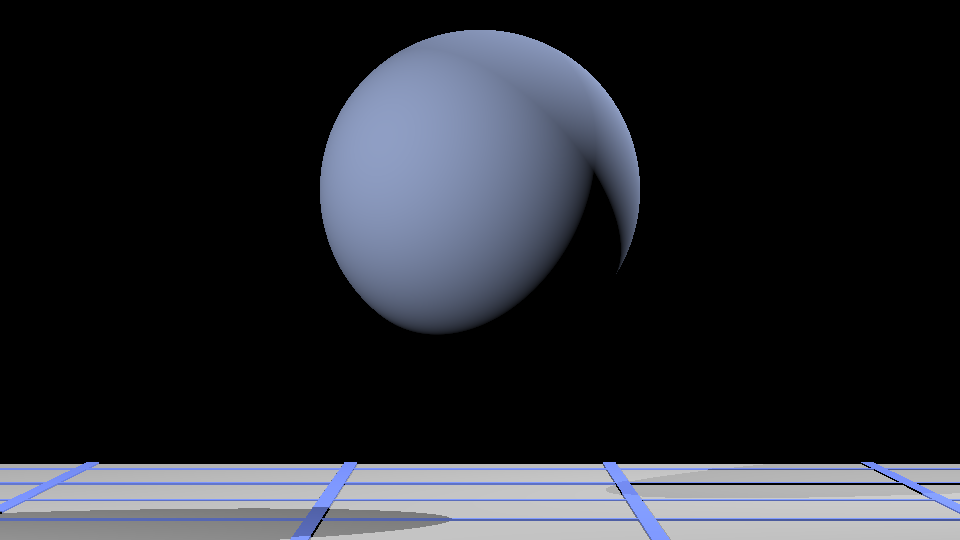
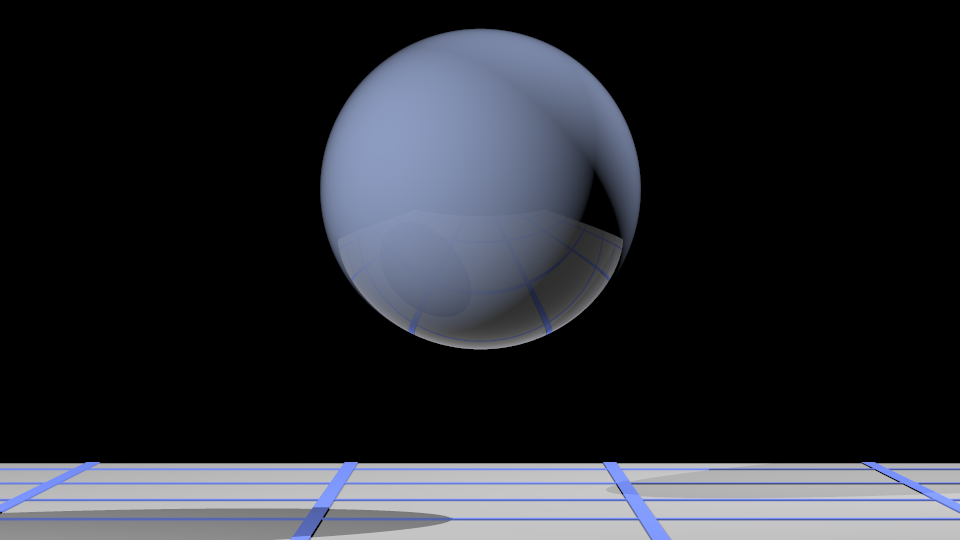
Glazed Shading Works

diff --git a/ray/shader/Glazed.java b/ray/shader/Glazed.java
@@ -35,40 +35,49 @@ public class Glazed extends Shader {
     public void shade(Color outColor, Scene scene, ArrayList<Light> lights, Vector3 toEye, 
                       IntersectionRecord record, int depth, double contribution, boolean internal) {
 
-        for (Light li : lights) {
+    		toEye.normalize();
         	//Calculate Reflection Ray
-            Vector3 l = new Vector3();
-            l.sub(li.position, record.location); // unit vector towards light
-            l.normalize();
+    		// r = -toEye - 2(-toEye.dot(n))*n;
+            Vector3 l = new Vector3(toEye);
+            l.scale(-1);
             Vector3 norm = new Vector3(record.normal);
             double d = -2*l.dot(norm);
             norm.scale(d);
-            l.sub(norm);
+            l.add(norm);
             l.normalize();
             Ray reflectionRay = new Ray(record.location,l);
-            
+            reflectionRay.start = Ray.EPSILON;
+            reflectionRay.end = Double.POSITIVE_INFINITY;
+
 	    	if(depth<=MAXDEPTH&&contribution>=MINCONTRIBUTION) {
 
 				// Implement Fresnel equation (Shirley 13.1)
 				// Scale the vector L by -1 to get R that points away from the surface as the normal does.
-				Vector3 r = new Vector3(l);
-				r.scale(-1);
-				r.normalize();
-				
-				double nt = this.refractiveIndex;
-				double r0 = Math.pow(((nt-1)/(nt+1)), 2);
-				double theta = Math.acos(record.normal.dot(r)/(record.normal.length()*r.length()));
-				double reflection = r0 + Math.pow((1-r0)*(1-Math.cos(theta)),5);
-				
-				// WHAT TO DO WITH CONTRIBUTION??????
+				Vector3 r = new Vector3(toEye);
 
+				r.normalize();
+
+				double r0 = Math.pow(((refractiveIndex-1)/(refractiveIndex+1)), 2);
+
+				double theta = Math.acos(record.normal.dot(r));
+				double reflection = r0 + (1-r0)*Math.pow((1-Math.cos(theta)),5);
+				//System.out.println(reflection);
+
+				Color reflectionColor = new Color(0,0,0);
+				Color substrateColor = new Color(0,0,0);
+				
 				// compute reflected contribution (make a recursive call to shadeRay)
-				RayTracer.shadeRay(outColor, scene, reflectionRay, lights, depth, contribution, internal);
+		    	depth++;
+				RayTracer.shadeRay(reflectionColor, scene, reflectionRay, lights, depth, contribution, internal);
 				
 				// compute substrate contribution (call substrate.shade(...))
-				substrate.shade(outColor, scene, lights, toEye, record, depth, contribution, internal);
-		    	depth++;
+				substrate.shade(substrateColor, scene, lights, toEye, record, depth, contribution, internal);
+				
+				reflectionColor.scale(reflection);
+				substrateColor.scale(1-reflection);
+				reflectionColor.add(substrateColor);
+				outColor.set(reflectionColor);
 	    	}
-        }
+	    	
     }
 }
